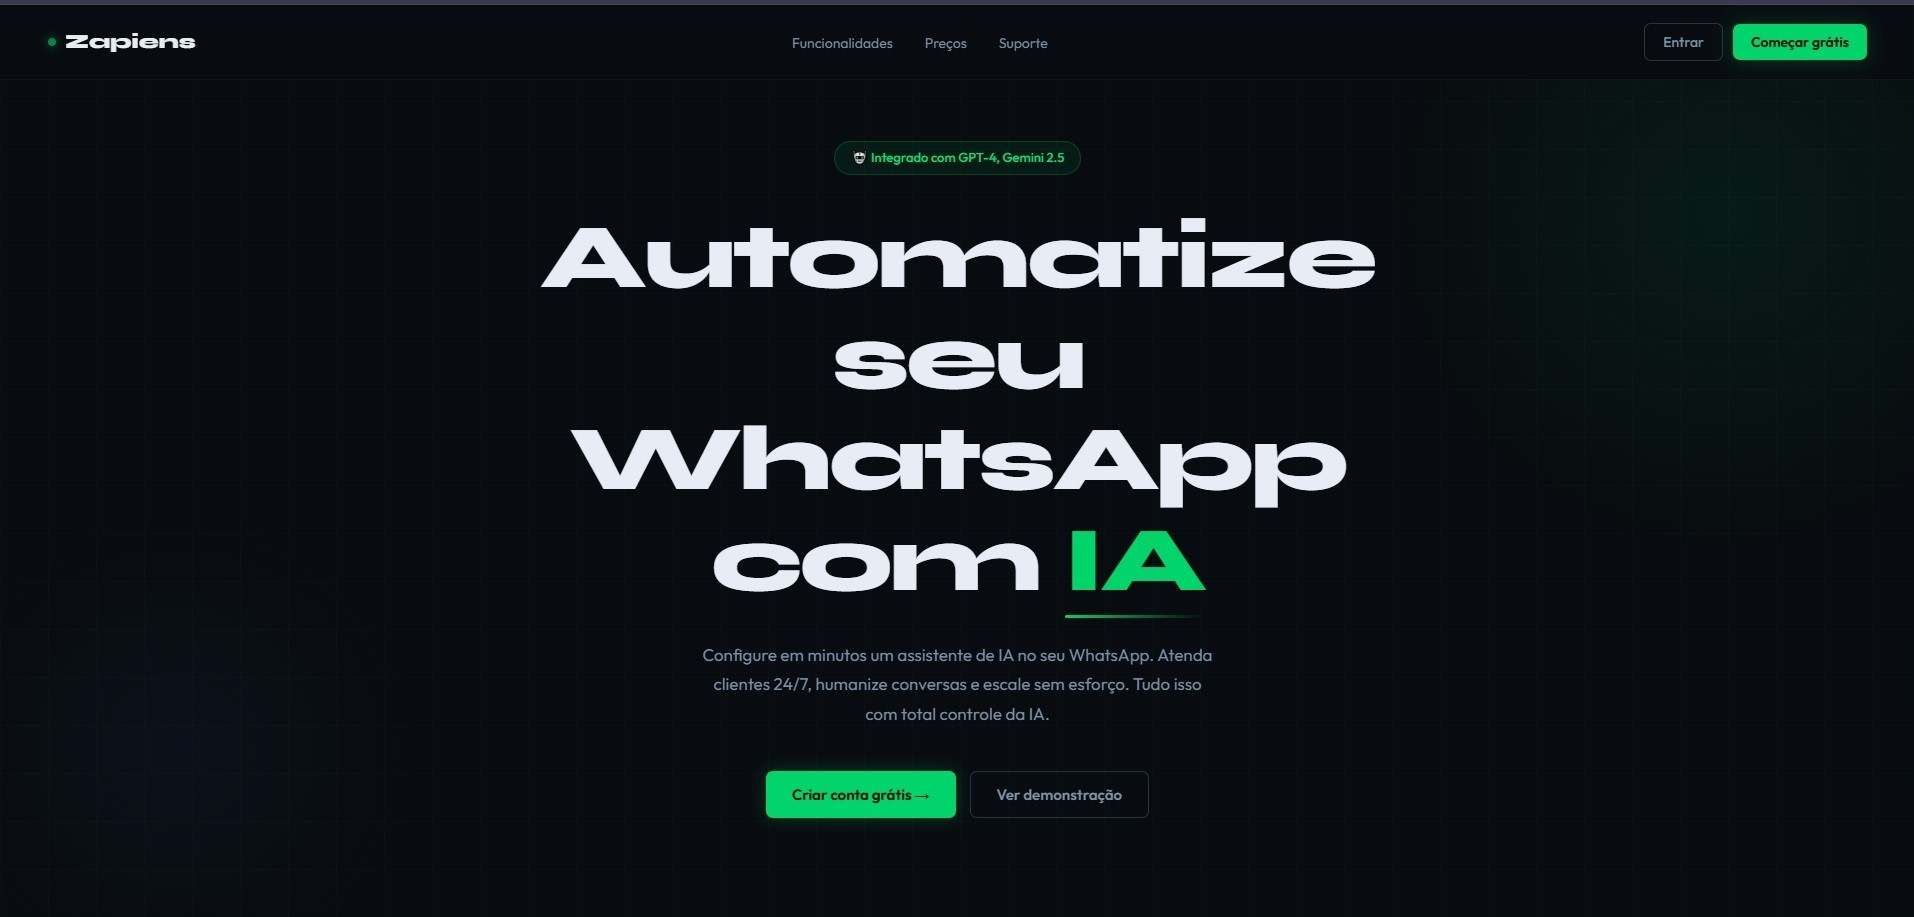
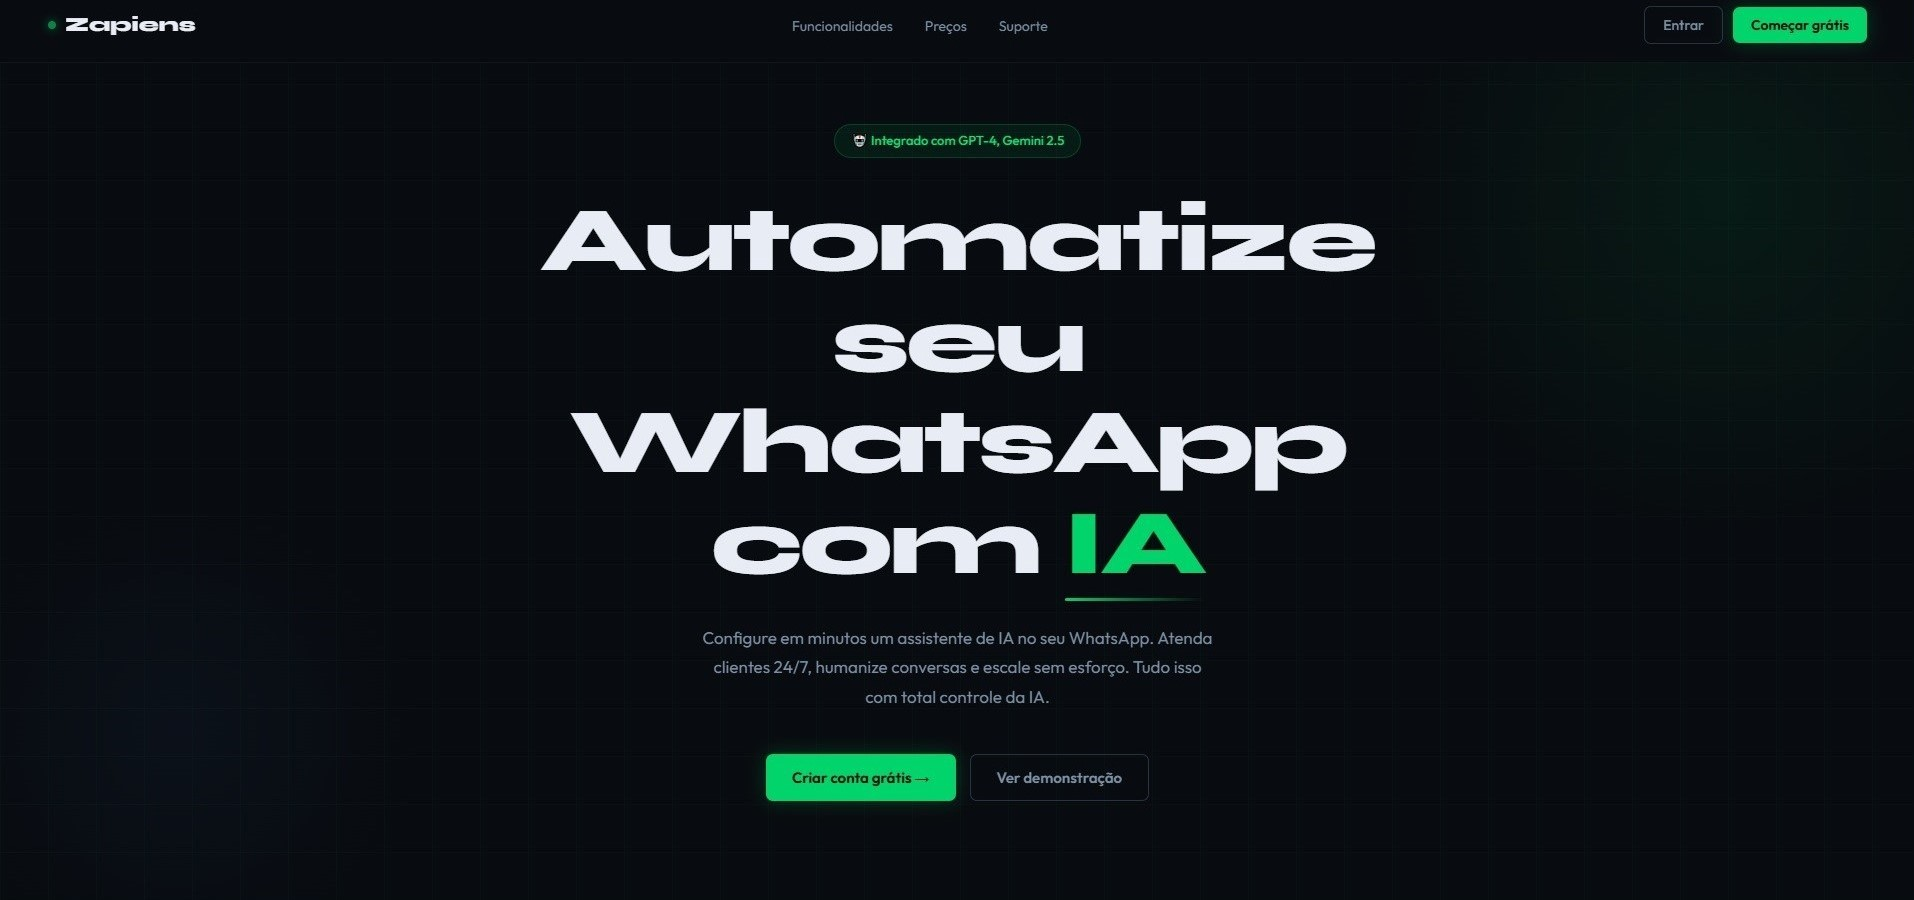
feat: melhoria nos projetos

diff --git a/src/components/ProjectsSection.tsx b/src/components/ProjectsSection.tsx
@@ -2,8 +2,9 @@ import React, { useEffect, useRef, useState } from 'react';
 import { Button } from '@/components/ui/button';
 import { ExternalLink, Github } from 'lucide-react';
 import imageZapiens from './image/ZAPIENS.jpg';
-import imageQuickTools from './image/QuickTools.jpg';
+import imageQuickTools from './image/Quicktools 2.png';
 import imageGestaoEmpresarial from './image/Sistema De Gestao FInanceira.jpg';
+import areaRestritaImage from './image/amvar.jpg';
 
 type Project = {
   title: string;
@@ -53,14 +54,15 @@ const ProjectsSection = () => {
       technologies: ['HTML', 'CSS', 'JavaScript', 'Responsivo', 'Landing Page'],
       github: 'https://github.com/Maurocesar12/LandingPage_Nutricionista',
       image: 'https://images.unsplash.com/photo-1490645935967-10de6ba17061?w=600&h=400&fit=crop',
+      demo: 'https://arletenutricionista.com.br/',
       label: 'Projeto Realizado'
     },
     {
-      title: 'Site Segna Consultoria em Seguros',
-      description: 'Site institucional desenvolvido e mantido em WordPress para apresentar soluções de seguros, consórcios, atendimento, blog e canais de contato. O trabalho envolve personalização de páginas, ajustes de performance, organização de conteúdo e manutenção contínua para melhorar a experiência dos clientes.',
+      title: 'Área Restrita de Colaboradores',
+      description: 'Realizei a configuração e o desenvolvimento de uma área restrita para colaboradores em um site WordPress, utilizando o desenvolvimento com PHP e plugin Elementor.Implementei funçoes no SQL. A área foi projetada para fornecer acesso seguro a informações internas, documentos e recursos exclusivos para os funcionários da empresa. Além de fornercer todo amparo de mudança de hospedagem e atualizaçoes de segurança do site.',
       technologies: ['WordPress', 'PHP', 'Elementor', 'CSS', 'Performance', 'Cloudflare'],
-      demo: 'https://www.segna.com.br/',
-      image: 'https://www.segna.com.br/wp-content/uploads/2021/09/10624-1-1024x870.png',
+      demo: 'https://amvvar.org.br/area-restrita/',
+      image: areaRestritaImage,
       label: 'Projeto Realizado'
     }
   ];
@@ -113,7 +115,7 @@ const ProjectsSection = () => {
                     className="w-full h-64 sm:h-72 lg:h-80 xl:h-96 object-cover transition-all duration-500 group-hover:scale-105"
                     loading="lazy"
                   />
-                  <div className="absolute inset-0 bg-green/20 transition-opacity duration-300 group-hover:opacity-0" />
+                  <div className="absolute inset-0 transition-opacity duration-300 group-hover:opacity-0" />
 
                   <div className="absolute inset-0 bg-dark-navy/80 opacity-0 transition-opacity duration-300 group-hover:opacity-100 flex items-center justify-center">
                     <div className="flex gap-4">
@@ -121,7 +123,7 @@ const ProjectsSection = () => {
                         <Button
                           variant="ghost"
                           size="sm"
-                          className="text-green hover:text-lightest-slate hover:bg-green/20 p-3"
+                          className="text-green hover:text-lightest-slate p-3"
                           onClick={() => openUrl(project.github)}
                           aria-label={`Ver código do projeto ${project.title} no GitHub`}
                         >
@@ -133,7 +135,7 @@ const ProjectsSection = () => {
                         <Button
                           variant="ghost"
                           size="sm"
-                          className="text-green hover:text-lightest-slate hover:bg-green/20 p-3"
+                          className="text-green hover:text-lightest-slate p-3"
                           onClick={() => openUrl(project.demo)}
                           aria-label={`Ver demo do projeto ${project.title}`}
                         >
